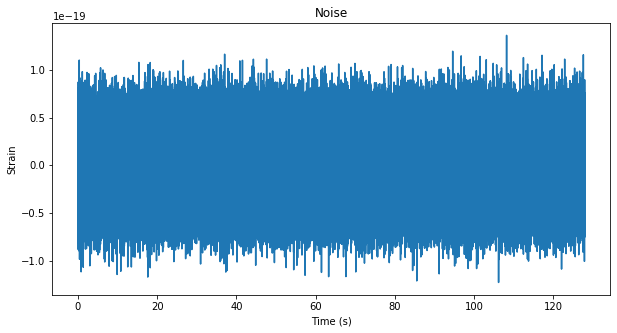
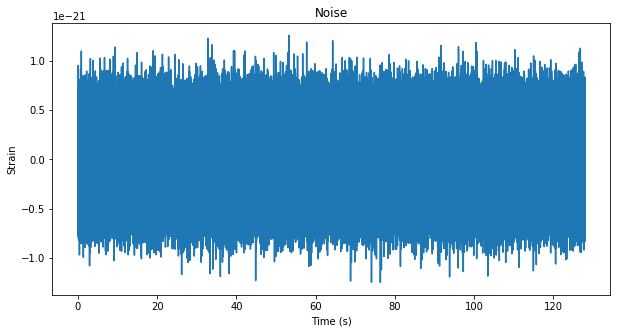
Changes made

diff --git a/src/chirp_injection.py b/src/chirp_injection.py
@@ -12,11 +12,12 @@ mass = 36
 f_min = 20
 time_duration = 128
 f_sample = 4096
+f_max = f_sample/2
 delta_t = 1/f_sample
 delta_f = 1/time_duration
 
-hp, hc = get_td_waveform(approximant='SEOBNRv4_opt', mass1=mass, mass2=mass, delta_t= delta_t, f_lower = f_min, distance=100)
-
+hp, hc = get_td_waveform(approximant='SEOBNRv4_opt', mass1=mass, mass2=mass, delta_t= delta_t, f_lower = 25, distance=100)
+noise = generate_noise(time_duration, delta_f, delta_t, f_min) 
  
 merger_time = (1/4096) * hp.numpy().argmax() 
 snr = 20
@@ -27,27 +28,28 @@ pylab.title('Generated Waveform')
 pylab.xlabel('Time (s)')
 pylab.ylabel('Strain')
 
-noise = generate_noise(time_duration, delta_f, delta_t) 
+
 pylab.figure(figsize=(10,5)) 
 pylab.plot(noise.sample_times,noise) 
 pylab.title('Noise')
 pylab.xlabel('Time (s)')
 pylab.ylabel('Strain')
 
-
+hp_size = len(hp)
+hp.resize(time_duration*f_sample)
 psd = noise.psd(4)
 psd = interpolate(psd, hp.delta_f)
-
-sigma = matchedfilter.sigma(hp, psd = psd, low_frequency_cutoff=20)
-Amplitude = snr/(sigma**2)
+sigma = matchedfilter.sigma(hp, psd = psd, low_frequency_cutoff=f_min)
+Amplitude = snr/(sigma)
 
 
 hp *= Amplitude
 
+hp.resize(hp_size)
 merger_time = 69
 merger_index = int(69/noise.delta_t)
 start_index = merger_index - len(hp)
-waveform = TimeSeries(numpy.zeros(len(noise)), delta_t=noise.delta_t, \
+waveform = TimeSeries(numpy.zeros(len(noise)), delta_t=delta_t, \
         dtype=real_same_precision_as(noise))
 
 
@@ -65,8 +67,8 @@ pylab.ylabel('Strain')
 pylab.title('Injected Waveform')
 
 
-zoom_signal = signal.time_slice(merger_time-0.1,merger_time+0.01)
-zoom_waveform = waveform.time_slice(merger_time-0.1,merger_time+0.01)
+zoom_signal = signal.time_slice(merger_time-0.5,merger_time+0.5)
+zoom_waveform = waveform.time_slice(merger_time-0.5,merger_time+0.5)
 pylab.figure(figsize=(10,5)) 
 pylab.plot(zoom_signal.sample_times,zoom_signal,label='Signal')
 pylab.plot(zoom_waveform.sample_times,zoom_waveform,label='Waveform')

diff --git a/src/generate_waveforms.py b/src/generate_waveforms.py
@@ -53,12 +53,9 @@ def generare_Impulse(duration, position):
     waveform = TimeSeries(impulse, delta_t=1/4096)
     return waveform
  
-def generate_noise(time, delta_f, delta_t): 
-    flow = 30 
-    delta_f = delta_f
+def generate_noise(time, delta_f, delta_t, f_min): 
     flen = int(2048/delta_f) +1 
-    psd = pycbc.psd.aLIGOZeroDetHighPower(flen, delta_f, flow)
-    delta_t = delta_t 
+    psd = pycbc.psd.aLIGOZeroDetHighPower(flen, delta_f, f_min)
     tsamples = int(time / delta_t) 
     ts = pycbc.noise.noise_from_psd(tsamples, delta_t, psd, seed=127) 
     return ts
